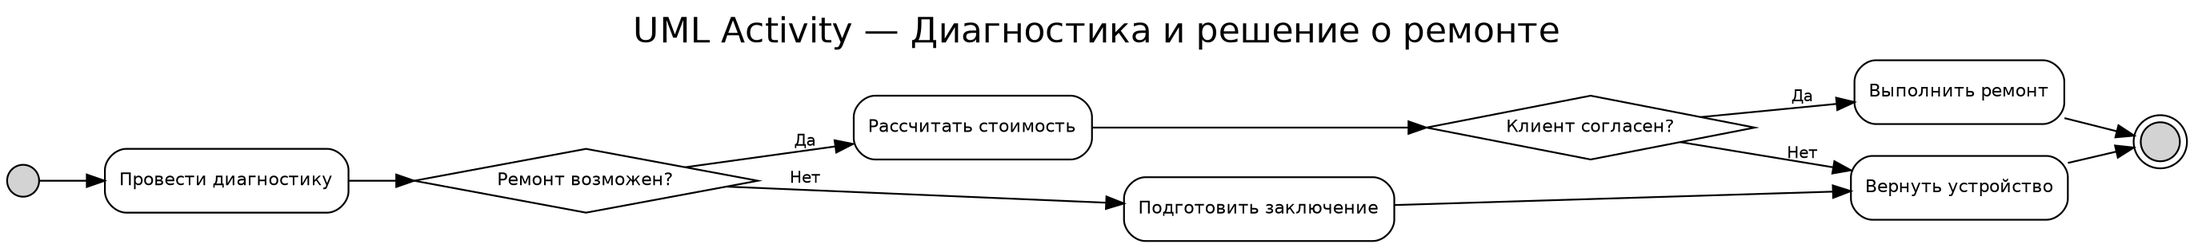
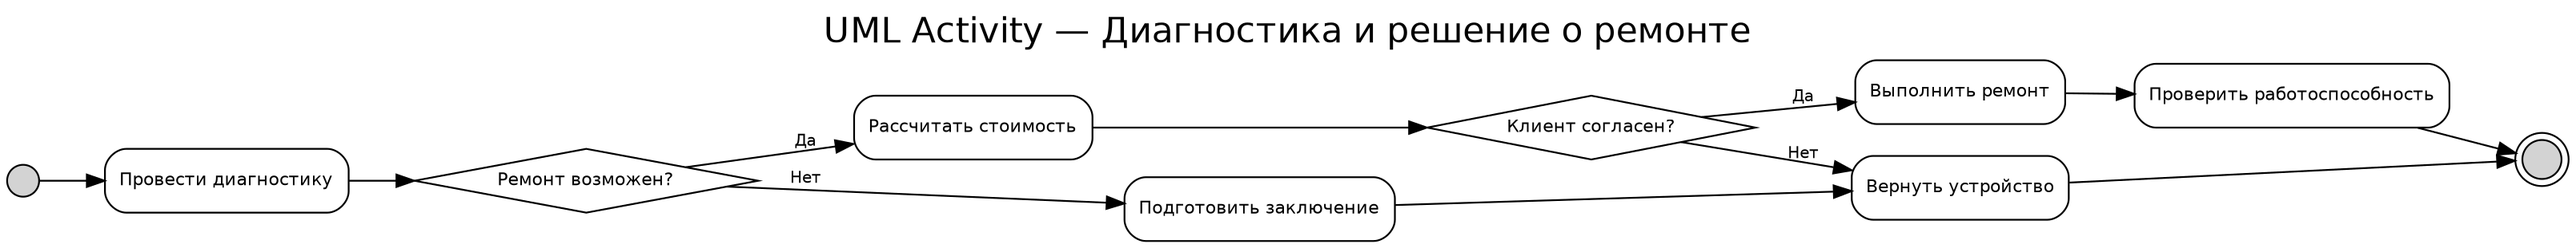
Update UML and Mermaid diagrams

diff --git a/lab1/docs/sequence.md b/lab1/docs/sequence.md
@@ -14,6 +14,9 @@ sequenceDiagram
     alt Клиент согласен
         C->>A: Подтверждает ремонт
         A->>T: Разрешает выполнение работ
+        loop Проверка до успешного результата
+            T->>T: Тестирует устройство
+        end
         T-->>A: Сообщает о готовности
         A-->>C: Приглашает забрать устройство
     else Клиент отказывается

diff --git a/lab1/docs/flowchart.md b/lab1/docs/flowchart.md
@@ -12,7 +12,9 @@ flowchart TD
     G -- Нет --> J
     G -- Да --> H[Выполнить ремонт]
     H --> I[Проверить устройство]
-    I --> K[Сообщить о готовности]
+    I --> M{Тест успешен?}
+    M -- Нет --> H
+    M -- Да --> K[Сообщить о готовности]
     K --> J
     J --> L([Конец])
 ```
